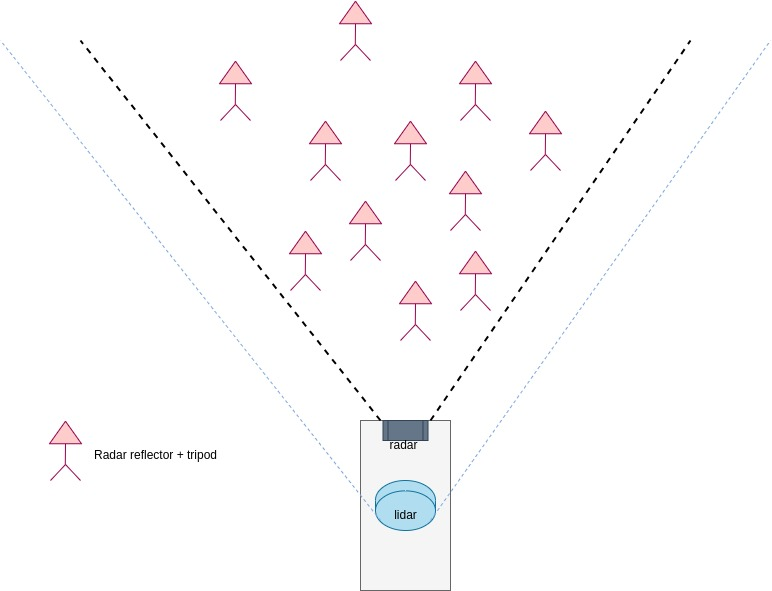
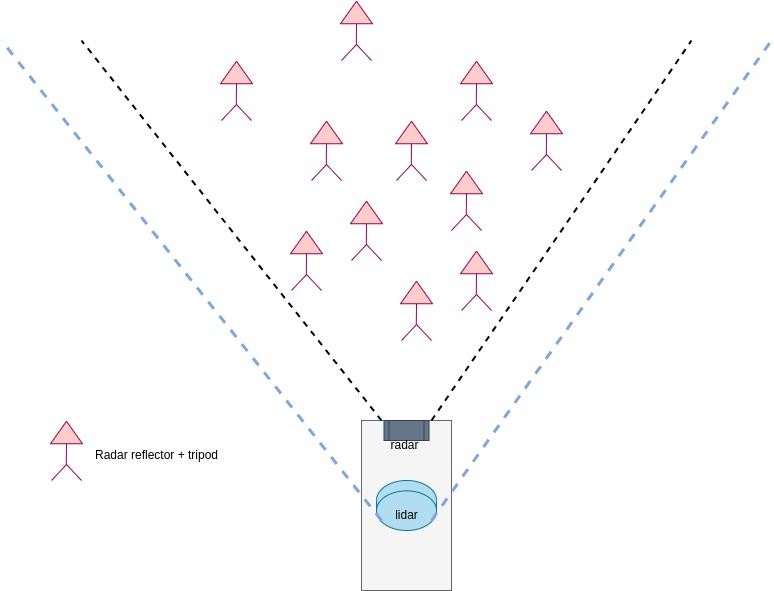
add vis image for mapping based

diff --git a/calibrators/mapping_based_calibrator/README.md b/calibrators/mapping_based_calibrator/README.md
@@ -50,7 +50,7 @@ Once the data is prepared for calibration, we can apply registration algorithms,
 
 Below, you can see how the algorithm is implemented in the `mapping_based_calibrator` package.
 
-![segment](../docs/images/mapping_based_calibrator/mapping_based_calibrator.jpg)
+![mapping_based_calibrator](../docs/images/mapping_based_calibrator/mapping_based_calibrator.jpg)
 
 ### base-lidar calibration
 
@@ -233,4 +233,10 @@ Finally, we use the initial transformation between baselink and lidar, and the p
 ## Pro tips/recommendations
 
 - For building the map accurately, drive your vehicle at the lowest feasible speed (2 km/h).
-- In order to create an accurate map, the surroundings of the calibration area are crucial. Ensure that the environment is rich in natural landmarks suitable for registration-based mapping in all directions. This will help the lidar capture sufficient details beyond simple features like lane surfaces or walls.
+- In order to create an accurate map, the surroundings of the calibration area are crucial. Ensure that the environment is rich in natural landmarks suitable for registration-based mapping in all directions, which shown in the image below. This will help the lidar capture sufficient details beyond simple features like lane surfaces or walls.
+
+- The calibration area is recommended to setup like the image below.
+
+<p align="center">
+    <img src="../docs/images/mapping_based_calibrator/mapping_based_vis.jpg" alt="radar_reflector" width="900">
+<p align="center">
